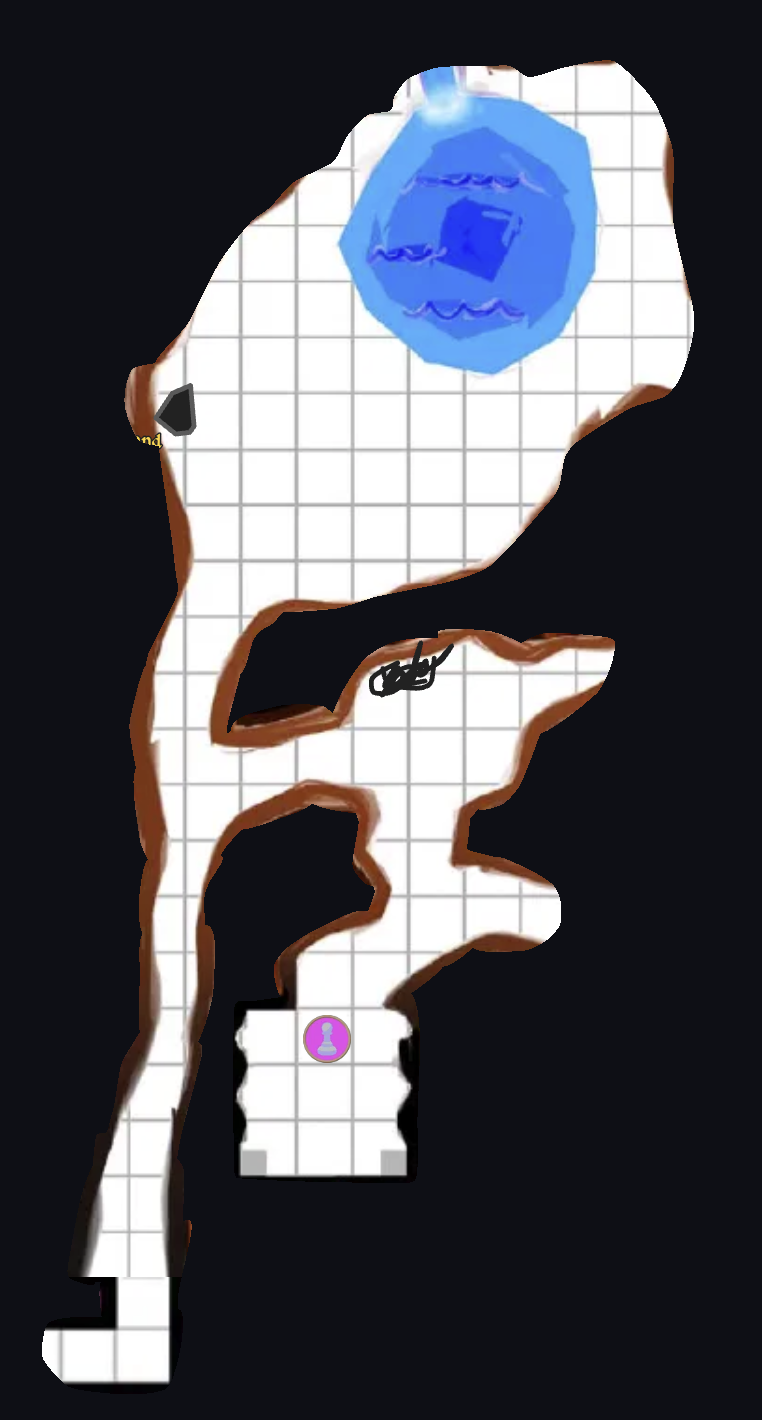
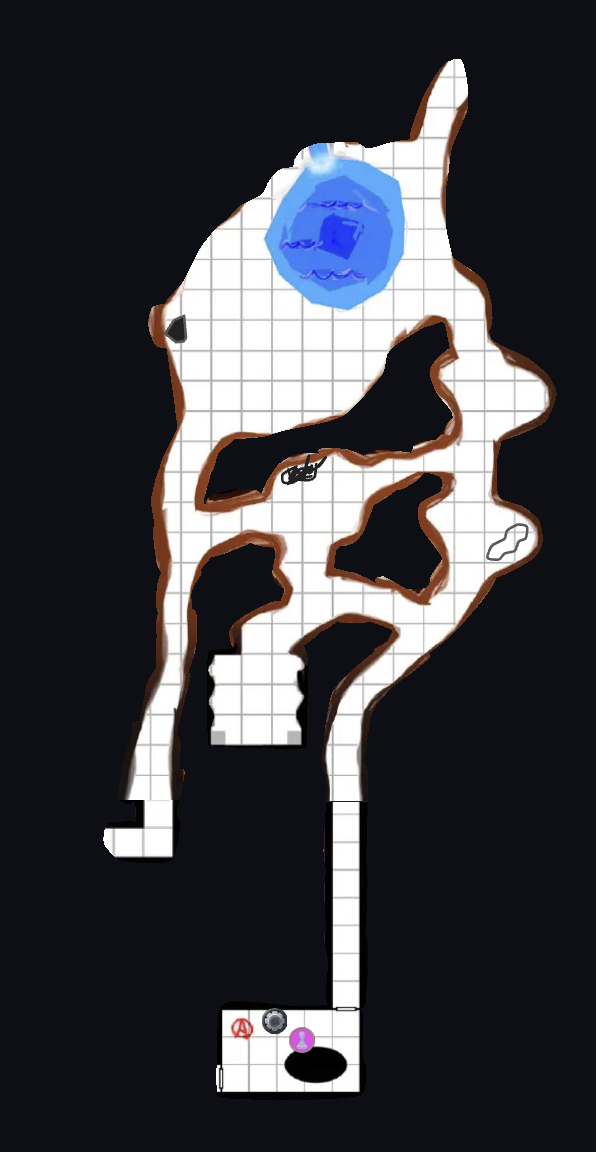
uvg003

diff --git a/campaigns/UVG24XX/ep_003.md b/campaigns/UVG24XX/ep_003.md
@@ -1,0 +1,77 @@
+---
+layout: default
+type: session
+nav_exclude: false
+nav_order: 3025-05-15
+title: Shaggy and Fleshy
+parent: UVG+24XX
+region: The Low Road and The High
+narration: 
+footer_content: 
+
+images:
+- ../../imgs/gallery/Pasted%20image%2020250718085246.png
+- ../../imgs/gallery/Pasted%20image%2020250718085258.png
+- ../../imgs/gallery/Pasted%20image%2020250707083529.png
+- ../../imgs/gallery/Pasted%20image%2020250707091725.png
+- ../../imgs/gallery/Pasted%20image%2020250707093902.png
+- ../../imgs/gallery/Pasted%20image%2020250707091609.png
+- ../../imgs/gallery/Pasted%20image%2020250718124606.png
+
+---
+
+{% include header_chapter.md %}
+{% comment %}
+`=map(this.images, (x) => "![im|200](" + x + ")")`
+{% endcomment %}
+
+[Atles](../../directory/Atles/index.md)' caravan is stationed on [The Low Road and The High](../../directory/LowRoadHigh/index.md).
+
+## Camping grounds
+
+[Tifixa](../../directory/Atles/Tifixa.md), [Kur](../../directory/Atles/Kur.md), [Cozarin](../../directory/Atles/Cozarin.md), [Horto](../../directory/Atles/Horto.md) and [Iacum](../../directory/Atles/Iacum.md) decide to work together for a week or so, on their exploration.
+They learn that the [Iridescent Globes](../../directory/FoldedBelow/IridescentGlobes.md) are worth € 500, but can be sold for more than that for magitech buyers.
+The crystal shards are worthless at least until [The Last Serai](../../directory/LastSerai/index.md).
+They learn of some business opportunity on the [Motor Outcrops](../../directory/LowRoadHigh/MotorOutcrops.md) and some trade patterns of cosmic scales being procured far west, beyond the [Fallen Umber](../../directory/FallenUmber/index.md).
+
+## To the Crystal Pylon again
+
+The group ponders and decides to go again to the [Crystal Pylon](../../directory/LowRoadHigh/CrystalPylon.md).
+Under the pylon, in the pool of water, they find some bronze coins with the face of a joker.
+On the rock walls at the back, they see what looks like a mollusc shell fossil.
+Under closer inspection, the shell moves and starts approaching the group.
+
+Tifixa names the mollusc [Shaggy](../../directory/FoldedBelow/ManEatingMolusc.md), and offers it a cup of coffee.
+Shaggy opens its multitude of eyes and mouths within tongues within mouths within tongues.
+It tries to swallow her arm, but Horto intercedes with one of his weapons and shoots the tentacle, ripping it from the main body of the creature.
+Over time, Tifixa develops two children's eyes on her forearm.
+
+## Geometric patterns
+
+The eastern caves have art on their walls, painted with blood.
+They are all geometric shapes, with no explicit language to them.
+They indicate a known joke under closer inspection of Kur.
+As Kur interprets them, a hand from the dark side of the south corridor starts to interact with the archaeologist.
+
+The group calls the person [Fleshy](../../directory/FoldedBelow/Skinwearer.md), as it seems to wear an oversized flesh over its flesh.
+It has limited intelligence but can communicate simple concepts and accept coffee.
+It points at the shapes in the walls, at itself, and then to the south.
+Its eyes start to shine, not unlike the [Iridescent Globes](../../directory/FoldedBelow/IridescentGlobes.md).
+
+## Map of folded spaces
+
+As the group continues south, the cave walls give way to walls built of red bricks.
+After cleaning the covering mould, they find bas reliefs of monsters and men that remind them of the documents found in the room to the north.
+At the end of the corridor, the lock at the door explodes with another of Horto's guns.
+
+Cozarin goes first and sees an animated armour waking up from its slumber.
+The construct comes towards the vampire and steps on a pool of blood.
+Cozarin ignores the armour and starts drinking from the pool.
+Iacum and Kur figure out how to turn off the magitech machine.
+
+While this happens, Tifixa reaches for a stone table in the room and reads a [folded-space map](../../directory/FoldedBelow/index.md).
+Do these rooms connect places that are distant from each other?
+Even worlds?
+
+The west wall of the room has another door, which is also locked.
+The group goes back to their camp.

diff --git a/campaigns/FailedExports/index.md b/campaigns/FailedExports/index.md
@@ -61,16 +61,16 @@ Only roll to avoid risk.
 A **Save** is a ***d20*** roll under `STR`, `DEX` or `WIL` to avoid danger from a risky situation.  
 
 In **Combat**, each side declares their actions before rolling **Damage** (***d6***, ***d8*** or ***d10***).
-When **Impaired** rolls ***d4***.
+When **Impaired** roll ***d4***.
 When **Enhanced** roll ***d12***.
 From the highest dice rolled, subtract the opponent's **Armour** (up to ***3***).
 The remainder is subtracted from `GUARD`. 
 If `GUARD` reaches ***0***, the opponent is **Exposed**.
 Opponents may also be **Exposed** if they are unaware of the risk of harm.
 
-When **Exposed**, (remaining) damage is subtracted from `STR`, wounding the opponent.  
-**PCs** make a `STR` **Save** to avoid a **Critical Injury**, which disables and kills in an hour.  
-**NPCs** make a `WIL` **Save** to avoid being routed.
+When **Exposed**, (remaining) damage is subtracted from `STR`, wounding the opponent.
+**PCs** make a `STR` **Save** to avoid a **Critical Injury**, which is debilitating and kills in an hour.
+**NPCs** may need to pass a `WIL` **Save** to avoid being routed.
 
 **Blast Damage** rolls separately for everyone in the effect area.  
 
@@ -87,9 +87,7 @@ Extreme effort when already **Fatigued** causes ***d6*** loss of `STR`, `DEX` or
 
 When lacking crucial needs, a **PC** is **Deprived** and cannot benefit from **Rest** or **Healing**.
 
-## Caravaning
-
-### Sacks
+## Inventory
 
 Inventory is abstracted in **Sacks**.
 A **Sack** is:
@@ -99,10 +97,10 @@ A **Sack** is:
 - One unconscious human.
 - A unit of trade goods.
 
-### This week the caravan is...
+## Caravaning
 
 The flowchart below establishes the rules for running caravans.
 When required, roll ***d20***.
-You may add a d6 if you have a relevant background.
+You may add a ***d6*** if you have a relevant background.
 
 ![](../../imgs/Screenshot%202025-05-12%20at%2017.53.24.png)

diff --git a/directory/FoldedBelow/index.md b/directory/FoldedBelow/index.md
@@ -1,0 +1,29 @@
+---
+layout: default
+template: 0.4
+type: location
+nav_exclude: true
+has_children: true
+has_toc: false
+
+parent: Directory
+title: The Folded Below
+role: Theoretical transreal network of collapsed space
+status: 
+
+images: 
+- ../../imgs/gallery/Pasted%20image%2020250718124606.png
+
+---
+
+{% include header_directories.md %}
+{% comment %}
+`=map(this.images, (x) => "![im|200](" + x + ")")`
+{% endcomment %}
+
+> "Beneath the Violet steppes lies the wrong side of space. We call it 'Below,' but that word means nothing down there."
+
+Between ancient megastructures, dungeon-palaces, and hollow idols. Though its entrances are scattered across the Grasslands, they connect—irrationally, dangerously, mysteriously—via spatial folds.
+
+Each fold links two places that should not touch.
+Each fold requires a key.

diff --git a/directory/Atles/Iacum.md b/directory/Atles/Iacum.md
@@ -1,0 +1,32 @@
+---
+layout: default
+template: 0.4
+type: people
+nav_exclude: false
+
+parent: Atles' Catlord Caravan
+title: Iacum di Villa
+role: Wildfolk cult bio-mechanic
+status: 
+
+hooks:
+- Tracking a missing ledger. Who would have traded enough magitech to be able to cause that accident? Cosmic scales rained after it, and their trade might be an answer to the accident.
+nav_order: 3025-05-15
+
+images: 
+
+
+---
+
+{% include header_directories.md %}
+{% comment %}
+`=map(this.images, (x) => "![im|200](" + x + ")")`
+{% endcomment %}
+
+**What do you always carry with you?** Animated furry chitin kite.
+
+**You have a sign of the Fast Stars:** Joker. Lost comedies from the void.
+
+**What disaster have you survived?** Voidspawned electromagical kaiju.
+
+**Why are you on the road?** Tracking a missing ledger.

diff --git a/directory/Atles/Horto.md b/directory/Atles/Horto.md
@@ -1,0 +1,31 @@
+---
+layout: default
+template: 0.4
+type: people
+nav_exclude: false
+
+parent: Atles' Catlord Caravan
+title: Horto ‘n Caravan
+role: Safranian merchant big game hunter
+status: 
+
+hooks:
+nav_order: 3025-05-15
+
+images: 
+- ../../imgs/gallery/Pasted%20image%2020250718091137.png
+
+---
+
+{% include header_directories.md %}
+{% comment %}
+`=map(this.images, (x) => "![im|200](" + x + ")")`
+{% endcomment %}
+
+ **Why are you on the road?** Determined to end a crippling disease. 
+ 
+ **What is your signature item?** Rainbow unicorn horn.
+ 
+ **Who is your nemesis since childhood?**: Charismatic public speaker. Seems ... cultish?. 
+ 
+ **You have a sign of the Fast Stars**: Voidskiff. A silver ship in the heart.

diff --git a/directory/Atles/Cozarin.md b/directory/Atles/Cozarin.md
@@ -1,0 +1,25 @@
+---
+layout: default
+template: 0.4
+type: people
+nav_exclude: false
+
+parent: Atles' Catlord Caravan
+title: Cozarin s’Berberin
+role: Wine vampire industrialist
+status: 
+
+hooks: Extracted some liquid from the mollusc from the Crystal Pylon.
+nav_order: 3025-05-15
+
+images: 
+- ../../imgs/gallery/Pasted%20image%2020250718091137.png
+
+---
+
+{% include header_directories.md %}
+{% comment %}
+`=map(this.images, (x) => "![im|200](" + x + ")")`
+{% endcomment %}
+
+Corazin is on the road for sheer industrial greed. He is an (ex-)Aristo that has been engineered at source for his role as a wine vampire. His nemesis is another aristo who is (more) elegant, suave, accomplished person of leisure.

diff --git a/directory/LowRoadHigh/MotorOutcrops.md b/directory/LowRoadHigh/MotorOutcrops.md
@@ -1,0 +1,28 @@
+---
+layout: default
+template: 0.4
+type: location
+nav_exclude: false
+has_children: true
+has_toc: false
+
+parent: 2 The Low Road and The High
+title: Motor outcrops
+role: 
+status: 
+
+hooks: Fragments of rare metal skeletons are embedded here, dangerous because of infected archaeologists.
+nav_order: 3025-05-15
+
+images: 
+
+---
+
+{% include header_directories.md %}
+{% comment %}
+`=map(this.images, (x) => "![im|200](" + x + ")")`
+{% endcomment %}
+
+2 days southeast.
+A gorgeous, striated ridge, left over from some incredibly aesthetic geological process.
+Fragments of rare metal skeletons are embedded here, dangerous because of infected archaeologists.

diff --git a/directory/LowRoadHigh/index.md b/directory/LowRoadHigh/index.md
@@ -11,8 +11,6 @@ title: 2 The Low Road and The High
 role: Village for retired caravaners
 status: 
 hooks:
-- Crystal Spire. None visited.
-- Motor outcrops. None visited.
 
 images: 
 - ../../imgs/gallery/Pasted%20image%2020250623074102.png
@@ -27,11 +25,3 @@ The cratered viaduct of the High Road runs on crumbling pylons of dying dryland 
 
 Village-camp of retired caravanserais that were not posh enough to retire in [Violet City](../VioletCity/index.md).
 It is a good place to trade for used caravan equipment and animals.
-
-
-## Crystal Spire
-
-## Motor outcrops
-2 days southeast.
-A gorgeous, striated ridge, left over from some incredibly aesthetic
-geological process

diff --git a/campaigns/UVG24XX/ep_002.md b/campaigns/UVG24XX/ep_002.md
@@ -2,7 +2,7 @@
 layout: default
 type: session
 nav_exclude: false
-nav_order: 3025-05-15
+nav_order: 3025-05-13
 title: Crystal Pylon
 parent: UVG+24XX
 region: The Low Road and The High
@@ -60,7 +60,7 @@ Below, shimmering lights, like white candles around water.
 ## Iridescent globes
 
 The group explore the cave system.
-Around a pool of water, [iridescent globes](../../directory/LowRoadHigh/IridescentGlobes.md).
+Around a pool of water, [iridescent globes](../../directory/FoldedBelow/IridescentGlobes.md).
 Pilik captures one and uses it as a lantern.
 
 ![](../../imgs/gallery/Pasted%20image%2020250707093902.png)

diff --git a/directory/FoldedBelow/Skinwearer.md b/directory/FoldedBelow/Skinwearer.md
@@ -7,17 +7,20 @@ has_children: true
 has_toc: false
 
 parent: 2 The Low Road and The High
-title: Iridescent Globes
-role: Globes of shimerring visions
+title: Fleshy
+role: Skinwearer
 status: 
 
 hooks: 
 
 images: 
-- ../../imgs/gallery/Pasted%20image%2020250707093902.png
+- ../../imgs/gallery/Pasted%20image%2020250718085258.png
 ---
 
 {% include header_directories.md %}
 {% comment %}
 `=map(this.images, (x) => "![im|200](" + x + ")")`
 {% endcomment %}
+
+It has limited intelligence, but can communicate simple concepts.
+Iridescent eyes, like the [Iridescent Globes](IridescentGlobes.md).

diff --git a/directory/LowRoadHigh/CrystalPylon.md b/directory/LowRoadHigh/CrystalPylon.md
@@ -11,7 +11,11 @@ title: Crystal Pylon
 role: RRV
 status: 
 
-hooks: A cave system is connected to the pylon through a drawer that can be opened with a computer interface. In it, some liquid crystal spheres floated around a pool of water. Several corridors were not explored.
+hooks:
+- A person, wearing someone else's flesh, with iridescent eyes, lives there.
+- Documents were found about lab coat cultists building monsters.
+- A map of the Folded Below suggests that distant places are connected through magitech subspaces.
+
 nav_order: 3025-05-15
 
 images: 

diff --git a/directory/FoldedBelow/IridescentGlobes.md b/directory/FoldedBelow/IridescentGlobes.md
@@ -1,0 +1,25 @@
+---
+layout: default
+template: 0.4
+type: creature
+nav_exclude: false
+has_children: true
+has_toc: false
+
+parent: 2 The Low Road and The High
+title: Iridescent Globes
+role: Globes of shimmering visions
+status: 
+
+hooks: 
+
+images: 
+- ../../imgs/gallery/Pasted%20image%2020250707093902.png
+---
+
+{% include header_directories.md %}
+{% comment %}
+`=map(this.images, (x) => "![im|200](" + x + ")")`
+{% endcomment %}
+
+Worth € 500, but up to 3x for the right magitech buyer.
